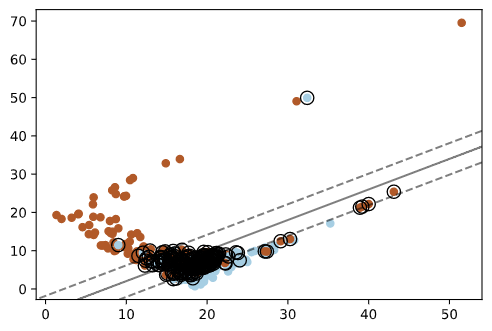
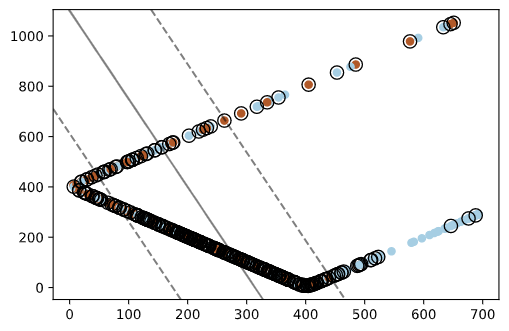
added draft 3 updates

diff --git a/Presentation/LaTex/Draft3/Fall+Detection_Draft3.tex b/Presentation/LaTex/Draft3/Fall+Detection_Draft3.tex
@@ -293,7 +293,7 @@ by taking the maximum magnitudes for acceleration and angular velocity in each t
 			\midrule
 			Linear Kernel & \makecell{52.972}\\
 			Polynomial Kernel & \makecell{52.972}\\
-			Polynomial Kernel & \makecell{50.622}\\
+			Gaussian Kernel & \makecell{50.622}\\
 			\bottomrule
 		\end{tabular}
  	\end{center}
@@ -320,7 +320,7 @@ by taking the maximum magnitudes for acceleration and angular velocity in each t
 			\midrule
 			Linear Kernel & \makecell{65.945}\\
 			Polynomial Kernel & \makecell{51.891}\\
-			Polynomial Kernel & \makecell{52.972}\\
+			Gaussian Kernel & \makecell{52.972}\\
 			\bottomrule
 		\end{tabular}
  	\end{center}
@@ -335,12 +335,46 @@ by taking the maximum magnitudes for acceleration and angular velocity in each t
 	\label{Figure 2: Decision Boundary of Linear Kernel SVM with Magnitude Thresholds}
 \end{figure}     
 
-    Many of the decision points appear to be clustered in an elbow shape around the origin, with most representing the majority class. This likely accounts for much of the accuracy. Further testing should be done to determine the rate of true positives to false negatives.
+    Many of the decision points appear to be clustered in an elbow shape around the origin, with most representing the majority class. This likely accounts for much of the accuracy. To account for some of the issues we saw in our first trials, we added a pre-processing step to the model: calculating Acceleration Vector Changes and using these as our threshold instead of the raw magnitude. After calculating these vectors we used the same k-means clustering as before to group and label the activities.
+    
+\begin{figure}
+	\centering
+	\includegraphics[width=12cm, height=10cm]{images/MaxMagnitudeClustersAVC.png} 
+	\caption{: K-Means Centroids of Falls and ADLs on AVC and WVC}
+	\label{Figure 1: K-Means Clusters of AVC and WVC Values per Trial}
+\end{figure}
+
+    There are a significant grouping of ADL outliers. For the time-being, we will ignore these and proceed with classification. Since we have had the greatest success with the SVM linear kernel, we will classify the centroid distances of the AVC model with this classifier as well.
+    
+\begin{table}
+ 	\begin{center}
+		\caption{SVM Classifier Accuracy for Magnitude Distance By Kernel}
+		\label{table5}
+		\begin{tabular}{|c|c|}
+			\toprule
+			Kernel Type & Accuracy Percent\\
+			\midrule
+			Linear Kernel & \makecell{77.300}\\
+			\bottomrule
+		\end{tabular}
+ 	\end{center}
+\end{table}     
+
+\begin{figure}
+	\centering
+	\includegraphics[width=12cm, height=10cm]{images/Classification/linear_classifier_boundary_avc.png} 
+	\caption{: Linear SVM Classifier of AVC and WVC}
+	\label{Figure 2: Linear SVM Classifier of AVC and WVC Values per Trial}
+\end{figure}
+
+With this model there was significantly improved accuracy: over 77 percent. The linear decision plot appears similar to the magnitude model, although more of the ADL values appear to be further from the boundary. This aligns with what is seen in the cluster plot, and could explain the increase in accuracy from the previous model.
     
 %\section{Discussion}
 \section{Conclusion}
 
-The overall accuracy of the SVM classifier was not very accurate, with the most accurate being a linear kernel on the magnitude thresholds at 66 percent. As mentioned above, there are many points clustered near the origin, suggesting a high rate of true negatives contributing to the overall accuracy. It may be possible to re-test the triaxial model by creating change vectors instead of principle components, since the PCs were built across the entire model, not just each cluster. Additionally, another possible method could be Gaussian mixture model, which would essentially create both components (labelling plus classification) in a single process, although we would need to indicate or compute a threshold of probability for this to work practically.
+The overall accuracy of the SVM classifier was low, until the AVC pre-processing step was added. The final, most accurate classifier was a linear kernel on AVC cluster, at about 77 percent. As mentioned above, there are many points clustered near the origin, suggesting a high rate of true negatives contributing to the overall accuracy. Additionally, another possible method could be Gaussian mixture model, which would essentially create both components (labelling plus classification) in a single process, although we would need to indicate or compute a threshold of probability for this to work practically.
+
+The high number of outliers in the cluster analysis is also worth mentioning. Interestingly, most of these outliers corresponded with Activity 10, or the jumping ADL. Although removing this does not improve accuracy by much, it does present an interesting observation: clusters of AVCs are more linearly separable for fall-like acceleration versus other activities.  
 
 To further our analysis and the performance of our fall detection algorithm, better signal processing techniques should be employed to represent the time series data in each trial. In this analysis, taking the maximum values of the magnitude of the sensor signal caused all other measurements in each trial besides the peak signal to be discarded. Combinations of high-pass filters on the time series and regression analysis to extract a singular representative value for each trial are recommended as improvements over the current signal processing technique of taking the maximum value. 
 
